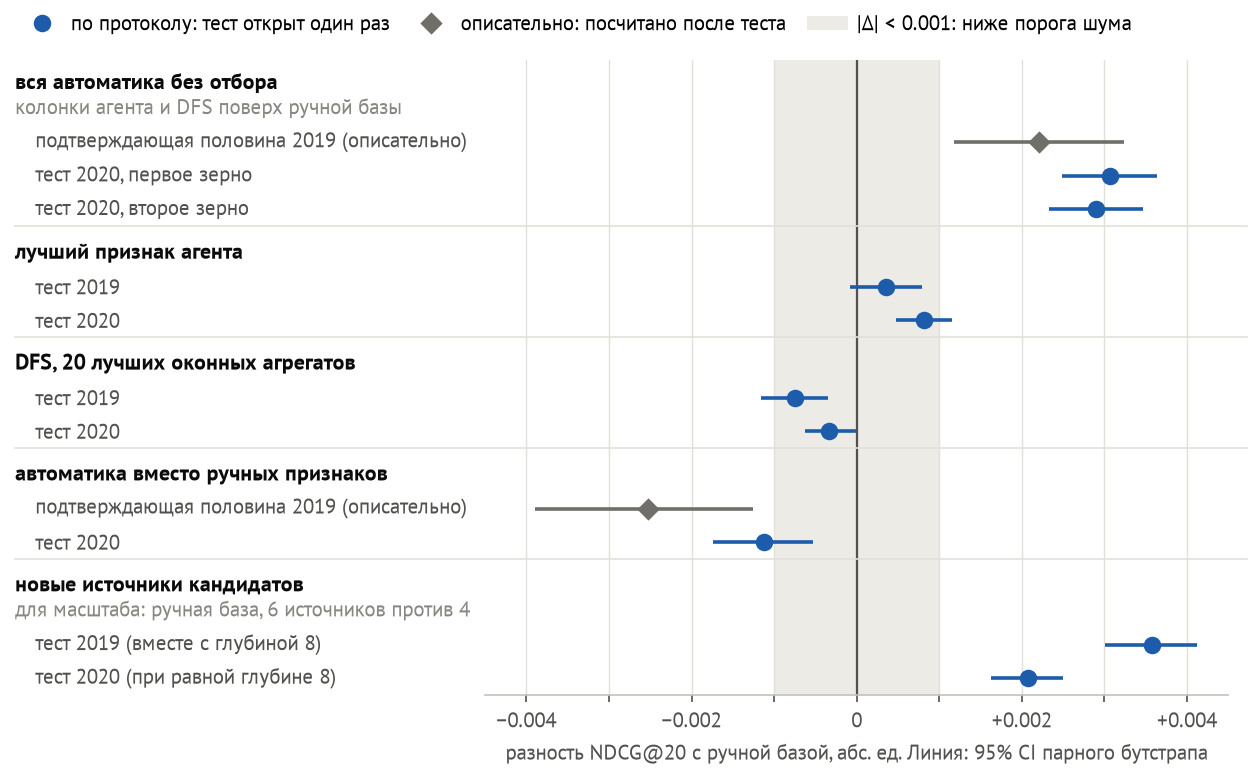
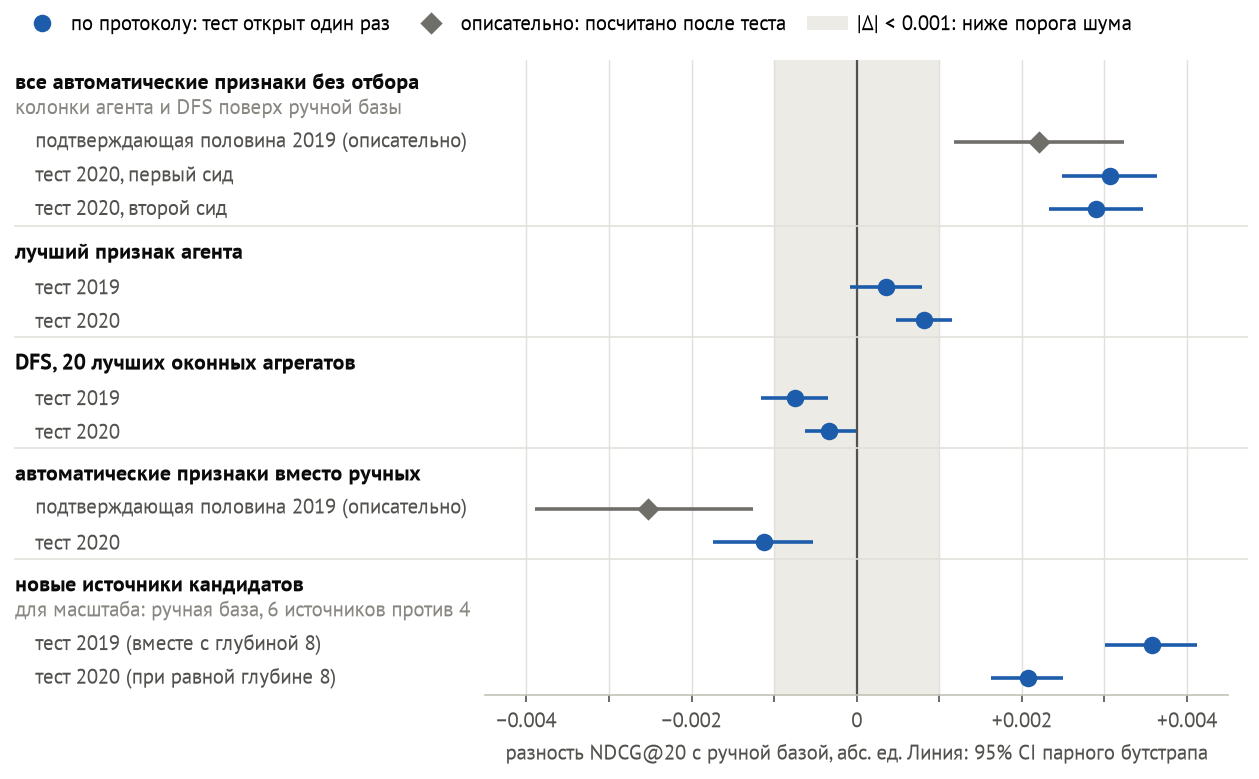
Отчёт простым языком: без внутренних терминов и ссылок на разделы

Changed region(s): [[0.031, 0.0924, 0.3407, 0.1232], [0.0929, 0.5854, 0.3407, 0.6162], [0.1239, 0.2157, 0.2168, 0.2773]]

diff --git a/scripts/writeup_figures.py b/scripts/writeup_figures.py
@@ -288,11 +288,11 @@ def fig_rees46_verdict() -> Path:
     F = FACTS
     L = RowLayout()
 
-    L.header("вся автоматика без отбора")
+    L.header("все автоматические признаки без отбора")
     L.sub("колонки агента и DFS поверх ручной базы")
     L.row("подтверждающая половина 2019 (описательно)", ci=F["hplus_b2019"], evid="descriptive")
-    L.row("тест 2020, первое зерно", ci=F["hplus_t2020_s1"], evid="protocol")
-    L.row("тест 2020, второе зерно", ci=F["hplus_t2020_s2"], evid="protocol")
+    L.row("тест 2020, первый сид", ci=F["hplus_t2020_s1"], evid="protocol")
+    L.row("тест 2020, второй сид", ci=F["hplus_t2020_s2"], evid="protocol")
     L.separator()
     L.header("лучший признак агента", gap=0.3)
     L.row("тест 2019", ci=F["p5_t2019"], evid="protocol")
@@ -302,7 +302,7 @@ def fig_rees46_verdict() -> Path:
     L.row("тест 2019", ci=F["dfs_t2019"], evid="protocol")
     L.row("тест 2020", ci=F["dfs_t2020"], evid="protocol")
     L.separator()
-    L.header("автоматика вместо ручных признаков", gap=0.3)
+    L.header("автоматические признаки вместо ручных", gap=0.3)
     L.row("подтверждающая половина 2019 (описательно)", ci=F["f1_b2019"], evid="descriptive")
     L.row("тест 2020", ci=F["f1_t2020"], evid="protocol")
     L.separator()

diff --git a/docs/writeup/REPORT.md b/docs/writeup/REPORT.md
@@ -2,25 +2,25 @@
 
 Отбор T-Lab 2026, RecSys, задача 1.
 
-**Ответ.** Мы выбрали постановку: рекомендовать в интернет-магазине REES46 товары, новые для пользователя (обоснование в разд. 1). Ручную базу (CatBoost на 80 признаках, настроенный по одному гиперпараметру за раз) мы сравнили с двумя способами строить признаки автоматически: LLM-агентом, который пишет SQL, и сеткой оконных агрегатов DFS. Из вариантов с автоматическими признаками базу обыграла только вся автоматика без отбора: все колонки агента и DFS поверх ручных признаков (рис. 1). На свежем тесте 2020 она дала +2.0% NDCG@20 к базе (+0.0030), доверительный интервал (CI) выше нуля в обоих запусках с разным зерном [по протоколу]. Гипотезу о ней мы записали после теста 2019 и проверили один раз. Прирост лучшего признака агента ниже порога шума ≈0.001, у лучших колонок DFS прироста нет, а замена ручных признаков автоматикой при настройках базы дала −0.77% на тесте 2020 [по протоколу]. На других наборах колонки агента подняли базу на отложенных неделях Tinkoff и СберМаркета [holdout с отклонением], но на Kaggle у Tinkoff оказались ниже базы, а у H&M не различены [описательно].
+**Ответ.** Мы рекомендуем в интернет-магазине REES46 товары, новые для пользователя. Ручную базу (CatBoost на 80 признаках, настроенный по одному гиперпараметру за раз) мы сравнили с двумя способами строить признаки автоматически: LLM-агентом, который пишет SQL, и сеткой оконных агрегатов DFS. Базу обыграл только один вариант: все автоматические признаки агента и DFS поверх ручных, без отбора. На свежем тесте 2020 он дал +2.0% NDCG@20 к базе (+0.0030), доверительный интервал (CI) выше нуля на обоих сидах [по протоколу]. Этот вариант мы придумали после теста 2019, записали правило до теста 2020 и проверили один раз. Прирост лучшего признака агента ниже порога шума ≈0.001, у лучших колонок DFS прироста нет, а замена ручных признаков автоматическими при настройках базы дала −0.77% на тесте 2020 [по протоколу]. На других наборах колонки агента подняли базу на отложенных неделях Tinkoff и СберМаркета [holdout с отклонением], но на Kaggle у Tinkoff оказались ниже базы, а у H&M не различены [описательно].
 
-- **[по протоколу]**: результат теста, открытого для вердикта один раз по замороженной спецификации, с 95% CI парного бутстрапа по запросам. Числа половин валидации до теста 2019 считаются этапами этого протокола, метки у них нет.
-- **[holdout с отклонением]**: правило решения записано заранее, но отложенные данные (holdout) открыты с отступлением от предрегистрации (разд. 3).
+- **[по протоколу]**: тест открыт один раз, варианты, пороги и правила решения записаны в Git до него, 95% CI парного бутстрапа по запросам. Числа валидации до теста 2019 входят в ту же проверку и метки не имеют.
+- **[holdout с отклонением]**: правило решения записано заранее, но отложенные данные (holdout) открыты не так, как было записано.
 - **[описательно]**: без проверки по протоколу, в том числе всё посчитанное после теста.
-- **[исследовательский]**: OTTO-2 и OTTO-3, разведка на соревновании Kaggle OTTO (разд. 6). Неделю для выбора и неделю Kaggle там открывали много раз.
+- **[исследовательский]**: OTTO-2 и OTTO-3, разведка на соревновании Kaggle OTTO. Неделю для выбора и неделю Kaggle там открывали много раз.
 
 ![Рис. 1](fig/fig-rees46-verdict.png)
 
-Рис. 1. Из вариантов с автоматическими признаками порог шума на тесте 2020 прошла только вся автоматика без отбора, а замена ручных признаков осталась ниже базы. Ромбы посчитаны после теста [описательно].
+Рис. 1. Порог шума на тесте 2020 прошёл только набор всех автоматических признаков без отбора, а замена ручных признаков осталась ниже базы. Ромбы посчитаны после теста [описательно].
 
 Табл. 1. Пункты условия ([пересказ](../task1-requirements.md)) и что по ним сделано.
 
-| Пункт условия | Что сделано | Где |
-|---|---|---|
-| Воспроизводимый бустинг с хорошими ручными признаками | CatBoost на 80 ручных признаках, настроен по одному гиперпараметру за раз, сочетания не проверялись | разд. 2, 5 |
-| Автоматизация генерации признаков либо альтернативный метод, превосходящий хорошо настроенный бустинг | LLM-агент и DFS. Поверх ручных признаков базу превзошла вся автоматика без отбора на тесте 2020 [по протоколу]. Отобранные признаки и замена ручных не превзошли [по протоколу] | разд. 5 |
-| Экспериментальная проверка, отчёт с результатами и ограничениями | Решения на одной половине валидации, проверка на другой, каждый тест открыт для вердикта один раз | разд. 3, 8 |
-| Данные для признаков до момента прогноза, без временных утечек | Признаки только из событий до момента рекомендации, построчный тест на утечки. Две найденные проблемы закрыты до использования | разд. 4 |
+| Пункт условия | Что сделано |
+|---|---|
+| Воспроизводимый бустинг с хорошими ручными признаками | CatBoost на 80 ручных признаках, настроен по одному гиперпараметру за раз, сочетания не проверялись |
+| Автоматизация генерации признаков либо альтернативный метод, превосходящий хорошо настроенный бустинг | LLM-агент и DFS. Поверх ручных признаков базу превзошёл набор всех автоматических признаков без отбора на тесте 2020 [по протоколу]. Отобранные признаки и замена ручных не превзошли [по протоколу] |
+| Экспериментальная проверка, отчёт с результатами и ограничениями | Решения на одной половине валидации, проверка на другой, каждый тест открыт один раз |
+| Данные для признаков до момента прогноза, без временных утечек | Признаки только из событий до момента рекомендации, построчный тест на утечки. Две найденные проблемы закрыты до использования |
 
 ## 1. Задача и данные
 
@@ -32,40 +32,40 @@
 
 ## 2. Метод
 
-**База.** Шесть источников кандидатов и 80 признаков в восьми группах. Источники: популярное, популярное в категориях и брендах пользователя, два вида соседей его недавних товаров по совместным просмотрам, переходы от просмотра к покупке. Модель: CatBoost с Logloss, глубина 8, 500 деревьев, два зерна генератора случайных чисел. NDCG@20 базы: 0.1442 на тесте 2019 и 0.1462 на тесте 2020 [по протоколу]. «Ручные» значит «спроектированные заранее по спецификации», а не найденные автоматикой. В базу вошли и идеи первого запуска агента, поэтому вклад автоматики с нуля мы не измерили.
+**База.** Шесть источников кандидатов и 80 признаков в восьми группах. Источники: популярное, популярное в категориях и брендах пользователя, два вида соседей его недавних товаров по совместным просмотрам, переходы от просмотра к покупке. Модель: CatBoost с Logloss, глубина 8, 500 деревьев, два сида. NDCG@20 базы: 0.1442 на тесте 2019 и 0.1462 на тесте 2020 [по протоколу]. «Ручные» значит «спроектированные заранее по спецификации», а не найденные агентом или DFS. В базу вошли и идеи первого запуска агента, поэтому вклад автоматических признаков с нуля мы не измерили.
 
-**LLM-агент.** За шесть раундов LLM пишет предложения агента, то есть идею и SQL-запрос к DuckDB, дающий одну или несколько колонок. Песочница считает каждое предложение только по событиям до t, и база переобучается с ним. Предложение принимается, если на половине для выбора прирост больше 0.0005 и CI выше нуля на обоих зёрнах. Этот порог мягче порога шума и только пропускает предложение на подтверждающую половину. В промпте нет строк данных и ответов, со второго раунда в нём есть эффекты прошлых предложений, а `claude -p` работает без инструментов. Из 30 предложений с 66 колонками принято одно, его мы называем лучшим признаком агента.
+**LLM-агент.** За шесть раундов LLM пишет предложения: идею и SQL-запрос к DuckDB, дающий одну или несколько колонок. Песочница считает каждое предложение только по событиям до t, и база переобучается с ним. Предложение принимается, если на половине для выбора прирост больше 0.0005 и CI выше нуля на обоих сидах. Этот порог мягче порога шума и только пропускает предложение на подтверждающую половину. В промпте нет строк данных и ответов, со второго раунда в нём есть эффекты прошлых предложений, а `claude -p` работает без инструментов. Из 30 предложений с 66 колонками принято одно, его мы называем лучшим признаком агента.
 
 **DFS (Deep Feature Synthesis).** Это контроль без LLM: 128 оконных агрегатов по товару, категории, бренду и пользователю. В модель идут 20 лучших по важности на обучении из 96 колонок, допущенных к отбору.
 
-**Варианты.** С базой мы сравнивали четыре варианта: базу с лучшим признаком агента, базу с 20 лучшими колонками DFS, всю автоматику без отбора и автоматику вместо ручных признаков. Вся автоматика без отбора: база, 66 колонок агента и 128 DFS, всего 274 признака. Автоматика вместо ручных признаков: ранги товара в шести источниках кандидатов и вся автоматика, 200 признаков.
+**Варианты.** С базой мы сравнивали четыре варианта: базу с лучшим признаком агента, базу с 20 лучшими колонками DFS, все автоматические признаки поверх базы без отбора и автоматические признаки вместо ручных. Вариант со всеми автоматическими признаками: база, 66 колонок агента и 128 DFS, всего 274 признака. Вариант с автоматическими признаками вместо ручных: ранги товара в шести источниках кандидатов и все автоматические колонки, 200 признаков.
 
 **Связь с работами.** Как в CAAFE (arXiv 2305.03403), LLM пишет код признаков, у нас это SQL по событиям до t. Завышение лучшего признака на половине для выбора мы по аналогии связываем с переобучением оценщика на валидации из LATTEArena (arXiv 2606.09004, v3, §5.3).
 
 ## 3. Протокол
 
-Решения мы принимали на одной половине валидации, проверяли на другой и каждый тест открывали для вердикта один раз. Две модели мы сравниваем по разности NDCG@20 на одних запросах, с CI парного бутстрапа. Разброс зёрен CI не учитывает, поэтому каждый вариант обучен на двух зёрнах.
+Решения мы принимали на одной половине валидации, проверяли на другой и каждый тест открывали один раз. Две модели мы сравниваем по разности NDCG@20 на одних запросах, с CI парного бутстрапа. CI не учитывает разброс между сидами, поэтому каждый вариант обучен на двух сидах.
 
-- **Порог шума ≈0.001.** Разность меньше порога мы не считаем установленной даже при CI выше нуля. Модели, отличающиеся только зерном, расходятся на подтверждающей половине до 0.0013, у 2 из 10 пар CI не накрывает ноль. Пары пересчитаны вне Git [описательно].
-- **Тесты.** Тест открывается по предрегистрации: вариантам, порогам и правилам решения, записанным в Git до чисел. Гипотезу о всей автоматике без отбора мы сформулировали после теста 2019, в котором этого варианта не было. На подтверждающей половине она дала +0.0022 [описательно]. Правило для 2020 мы записали до теста: прирост от +0.0015 на каждом зерне при CI выше нуля. Гиперпараметры, колонки DFS и признак агента для 2020 мы взяли из 2019 без перевыбора.
+- **Порог шума ≈0.001.** Разность меньше порога мы не считаем установленной даже при CI выше нуля. Модели, отличающиеся только сидом, расходятся на подтверждающей половине до 0.0013, у 2 из 10 пар CI не накрывает ноль. Пары пересчитаны вне Git [описательно].
+- **Тесты.** Варианты, пороги и правила решения записаны в Git до чисел теста. Вариант со всеми автоматическими признаками мы придумали после теста 2019, в котором его не было. На подтверждающей половине 2019 он дал +0.0022 [описательно]. Правило для 2020 мы записали до теста: прирост от +0.0015 на каждом сиде при CI выше нуля. Гиперпараметры, колонки DFS и признак агента для 2020 взяты из 2019 без перевыбора.
 
 **Отступления от протокола.**
 - Первые 11 прогонов показывали и метрики подтверждающей половины, по нашей оценке в пользу базы.
-- Глубину 8 база получила при CI выше нуля только на одном зерне, хотя агенту требовалось два, по нашей оценке тоже в пользу базы.
+- Глубину 8 база получила при CI выше нуля только на одном сиде, хотя агенту требовалось два, по нашей оценке тоже в пользу базы.
 - Лучший признак агента вошёл в тест 2019, хотя на подтверждающей половине его прирост уже не подтвердился. Такой состав теста мы выбрали вручную, в чью пользу это, неизвестно.
-- Последнее дополнение к предрегистрации 2020 мы внесли, когда уже видели числа проверочного прогона на валидации. Варианты и пороги оно не меняло, в чью пользу это, неизвестно.
-- В разборе подтверждающей половины 2019 правило для всей автоматики без отбора мы ужесточили после запуска прогонов, но до обучения её моделей: порог стал действовать на каждом зерне. Тогда мы видели только половину для выбора у одного прогона базы, и правка играет в пользу базы.
-- Перенос (Табл. 3): мы открыли отложенные недели Tinkoff и СберМаркета и отправили первые посылки Tinkoff по общему решению, без отдельного решения на каждое.
+- Последнее дополнение к плану теста 2020 мы внесли, когда уже видели метрики на валидации. Варианты и пороги оно не меняло, в чью пользу это, неизвестно.
+- В разборе подтверждающей половины 2019 правило для варианта со всеми автоматическими признаками мы ужесточили после запуска прогонов, но до обучения его моделей: порог стал действовать на каждом сиде. Тогда мы видели только половину для выбора у одного прогона базы, и правка играет в пользу базы.
+- Перенос на другие наборы: отложенные недели Tinkoff и СберМаркета мы открыли, а первые посылки Tinkoff отправили по одному общему решению, а не решали отдельно по каждому шагу.
 
-**Сколько раз открывали данные.** Тест 2020 и отложенные недели Tinkoff и СберМаркета после вердиктов повторно использовал совет агентов (разд. 6). На половине для выбора базу мы оценили 27 раз, агента 38 раз (прошлые эффекты были в его промпте), DFS 2 раза. Подтверждающую половину 2019 и валидацию 2020 мы использовали и в разборах после теста 2019, поэтому их числа после него описательные.
+**Сколько раз открывали данные.** Тест 2020 и отложенные недели Tinkoff и СберМаркета после вердиктов повторно использовал совет агентов: дополнительная проверка, где несколько LLM предлагают и отбирают признаки поверх всех автоматических. На половине для выбора базу мы оценили 27 раз, агента 38 раз (прошлые эффекты были в его промпте), DFS 2 раза. Подтверждающую половину 2019 и валидацию 2020 мы использовали и в разборах после теста 2019, поэтому их числа после него описательные.
 
 ## 4. Защита от утечек
 
 Признаки читают только события до t. Будущее окно определяет только цели и то, какие запросы оцениваются, в признаки оно не попадает. Проверка утечек на днях 22.10 и 11.11.2019 и 22.01.2020 строит признаки дня по полному журналу и по журналу, обрезанному по t, и сравнивает все колонки построчно. SQL агента выполняется в песочнице DuckDB, где есть только события до t.
 
-Постановка OTTO трансдуктивна: признаки видят более поздние события других сессий той же недели. Kaggle их выдаёт, а в онлайн-системе их нет.
+В OTTO признаки видят более поздние события других сессий той же недели. Kaggle их выдаёт, а в онлайн-системе их нет.
 
-Аудит SQL вела отдельная LLM без права правки. Аудитор Tinkoff до открытия отложенной недели посчитал корреляцию по событиям её окна цели, но набор агента был заморожен раньше. Остальные находки собраны в Табл. 2. Мы не утверждаем, что утечек нет: проверено только перечисленное.
+SQL агента проверяла отдельная LLM без права правки. На Tinkoff она до открытия отложенной недели посчитала корреляцию по событиям окна цели этой недели, но набор агента был заморожен раньше. Остальные находки собраны в Табл. 2. Мы не утверждаем, что утечек нет: проверено только перечисленное.
 
 Табл. 2. Две найденные проблемы закрыты до использования, расхождение в OTTO дали округления.
 
@@ -74,22 +74,22 @@
 | REES46, 2020: код категории брался за весь период, а у 19 категорий он появляется только 01–05.02 | тест на утечки | код берётся из событий до t, таблицы 2020 пересобраны до обучения моделей |
 | обход песочницы через функцию DuckDB `json_execute_serialized_sql` | ревью кода | закрыт до первого раунда агента |
 | OTTO: 4 колонки агента разошлись между полным журналом и журналом без продолжений сессий | тест на утечки | порядок округлений при параллельном суммировании, в один поток проверка прошла |
-| скрытое использование ответов в SQL агента | аудит SQL | не найдено в OTTO и при переносе. На REES46 его заменяет песочница |
+| скрытое использование ответов в SQL агента | проверка SQL отдельной LLM | не найдено в OTTO и при переносе. На REES46 вместо такой проверки работает песочница |
 
 ## 5. Результаты на REES46
 
-Поверх ручной базы помогла только вся автоматика без отбора (рис. 1).
+Поверх ручной базы помог только набор всех автоматических признаков без отбора.
 
-- **Вся автоматика без отбора.** На тесте 2020 она дала +0.0031 и +0.0029 по зёрнам, правило требовало +0.0015 на каждом [по протоколу]. К базе это +2.0%. На всех 16 днях, включая 27 и 28.02, вердикты те же.
+- **Все автоматические признаки без отбора.** На тесте 2020 они дали +0.0031 и +0.0029 по сидам, правило требовало +0.0015 на каждом [по протоколу]. К базе это +2.0%. На всех 16 днях, включая 27 и 28.02, вердикты те же.
 - **DFS, 20 лучших колонок.** DFS прироста не дал: −0.0008 и −0.0003 на тестах, обе разности меньше порога. CI ниже нуля оба раза, во втором вплотную к нулю [по протоколу].
-- **Плацебо.** После обоих тестов мы перемешали те же 194 колонки по строкам внутри дня: число и распределения колонок прежние, связь с парой пользователь–товар разрушена. На валидации настоящие колонки лучше перемешанных на 0.0025–0.0043 [описательно]. Перемешанные меняют базу на −0.0008…−0.0003 [описательно]. Значит, прирост несёт содержание колонок. По разложению на тех же данных его несут в основном колонки агента, одни DFS базу не поднимают [описательно]. На 2019 эта оценка вклада агента смещена: его предложения подбирались по половине для выбора 2019. На тесте состав прироста не разделён.
-- **Кандидаты.** В кандидаты не попадает около половины целей и больше: ≈48% на валидации 2019 по ночному журналу [описательно]. По разбору после теста на 29.01–02.02.2020 их ≈58% [описательно]. Новые источники кандидатов дали на тесте 2019 наибольший прирост, +0.0036 вместе с глубиной 8, а на тесте 2020 при равной глубине повторились, +0.0021 [по протоколу]. Источники входят в ручную базу, агент на REES46 пишет только признаки.
+- **Проверка перемешиванием.** После обоих тестов мы перемешали те же 194 колонки по строкам внутри дня: число и распределения колонок прежние, связь с парой пользователь–товар разрушена. На валидации настоящие колонки лучше перемешанных на 0.0025–0.0043 [описательно]. Перемешанные меняют базу на −0.0008…−0.0003 [описательно]. Значит, прирост несёт содержание колонок. По разложению на тех же данных его несут в основном колонки агента, одни DFS базу не поднимают [описательно]. На 2019 эта оценка вклада агента смещена: его предложения подбирались по половине для выбора 2019. На тесте состав прироста не разделён.
+- **Кандидаты.** В кандидаты не попадает около половины целей и больше: ≈48% на валидации 2019 [описательно] и ≈58% на последних пяти днях обучения 2020 (29.01–02.02) [описательно]. Новые источники кандидатов дали на тесте 2019 наибольший прирост, +0.0036 вместе с глубиной 8, а на тесте 2020 при равной глубине повторились, +0.0021 [по протоколу]. Источники входят в ручную базу, агент на REES46 пишет только признаки.
 
-**Лучший признак агента и завышение при отборе.** Даже если ни одно предложение не работает, лучшее из 30 на половине для выбора в среднем показывает около +0.0008 [описательно]. Лучший признак агента дал там +0.0013 и +0.0017 по зёрнам. На подтверждающей половине осталось +0.0004, и CI накрыл ноль. На тестах вышло +0.0004 и +0.0008 [по протоколу]: в 2019 CI накрыл ноль, в 2020 CI выше нуля, но прирост ниже порога и не установлен. Завышение поймала подтверждающая половина, порог приёма его пропустил. Прямого теста «пошагово против всего сразу» у нас нет: оба числа сравнивают с базой, а вся автоматика включает и DFS. В разборе после теста мы принимали предложения агента группами по пять, и на половине для выбора прошла одна группа. На подтверждающей половине её отставание от всех предложений агента сразу ниже порога шума [описательно]. Синергия это или сумма мелких эффектов, мы не различили.
+**Лучший признак агента и завышение при отборе.** Даже если ни одно предложение не работает, лучшее из 30 на половине для выбора в среднем показывает около +0.0008 [описательно]. Лучший признак агента дал там +0.0013 и +0.0017 по сидам. На подтверждающей половине осталось +0.0004, и CI накрыл ноль. На тестах вышло +0.0004 и +0.0008 [по протоколу]: в 2019 CI накрыл ноль, в 2020 CI выше нуля, но прирост ниже порога и не установлен. Завышение поймала подтверждающая половина, порог приёма его пропустил. Прямого теста «пошагово против всего сразу» у нас нет: оба числа сравнивают с базой, а все автоматические признаки включают и DFS. В разборе после теста мы принимали предложения агента группами по пять, и на половине для выбора прошла одна группа. На подтверждающей половине её отставание от всех предложений агента сразу ниже порога шума [описательно]. Синергия это или сумма мелких эффектов, мы не различили.
 
-**Замена ручных признаков.** Если оставить из ручных только ранги источников, база теряет 0.0167 на тесте 2020 [по протоколу] и 0.0171 на подтверждающей половине 2019 [описательно]. Автоматика вместо ручных признаков возвращает 93% этого вклада на тесте 2020 [по протоколу] и 85% на подтверждающей половине 2019 [описательно]. Но до базы она не дотягивает: −1.68% к базе на подтверждающей половине 2019 [описательно] и −0.77% на тесте 2020 [по протоколу], CI ниже нуля оба раза. Одни колонки агента возвращают 78% вклада, одни DFS 25%, оба числа на подтверждающей половине 2019 [описательно]. Оценка для агента смещена по той же причине, что в плацебо. На тесте 2020 разность −0.0011 лишь чуть больше порога [по протоколу]. Вариант на 200 признаках мы не перенастраивали, поэтому вывод относится к настройкам базы.
+**Замена ручных признаков.** Если оставить из ручных только ранги источников, база теряет 0.0167 на тесте 2020 [по протоколу] и 0.0171 на подтверждающей половине 2019 [описательно]. Автоматические признаки вместо ручных возвращают 93% этого вклада на тесте 2020 [по протоколу] и 85% на подтверждающей половине 2019 [описательно]. Но до базы они не дотягивают: −1.68% к базе на подтверждающей половине 2019 [описательно] и −0.77% на тесте 2020 [по протоколу], CI ниже нуля оба раза. Одни колонки агента возвращают 78% вклада, одни DFS 25%, оба числа на подтверждающей половине 2019 [описательно]. Оценка для агента смещена по той же причине, что в проверке перемешиванием. На тесте 2020 разность −0.0011 лишь чуть больше порога [по протоколу]. Вариант на 200 признаках мы не перенастраивали, поэтому вывод относится к настройкам базы.
 
-**Насколько настроен бустинг.** До теста мы настраивали базу по одному гиперпараметру за раз на половине для выбора и сочетаний не проверяли. Глубину 8 мы приняли, 1000 деревьев и трудные негативы отвергли. После теста выигрыша не дали глубина 10 и YetiRank у базы, пять значений трёх гиперпараметров у всей автоматики и ранняя остановка у обеих [описательно]. Что база вышла на плато, это не доказывает. Бюджеты мы не выравнивали: ручная настройка заняла 16 подгонок, ≈2.1 ч, а агент ≈4.8 ч. Недонастройка базы облегчает выигрыш автоматике, но автоматику вместо ручных признаков, плацебо, перенос и совет мы тоже не настраивали.
+**Насколько настроен бустинг.** До теста мы настраивали базу по одному гиперпараметру за раз на половине для выбора и сочетаний не проверяли. Глубину 8 мы приняли, 1000 деревьев и трудные негативы отвергли. После теста выигрыша не дали глубина 10 и YetiRank у базы, пять значений трёх гиперпараметров у набора всех автоматических признаков и ранняя остановка у обоих вариантов [описательно]. Что база вышла на плато, это не доказывает. Бюджеты мы не выравнивали: ручная настройка заняла 16 подгонок, ≈2.1 ч, а агент ≈4.8 ч. Недонастройка базы облегчает выигрыш автоматическим признакам, но вариант с автоматическими признаками вместо ручных, проверку перемешиванием, перенос и совет агентов мы тоже не настраивали.
 
 ## 6. Границы вывода
 
@@ -101,25 +101,25 @@
 
 | Набор | Отложенные данные | Kaggle private |
 |---|---|---|
-| Tinkoff, NDCG@20 | +6.2% и +3.6% по зёрнам [holdout с отклонением] | ниже базы, ≈−7.6% [описательно] |
-| СберМаркет, MAP@50 | +2.6% на обоих зёрнах [holdout с отклонением] | не проверен: на Kaggle колонки чаще пусты, чем на обучении, и не отправлялись |
+| Tinkoff, NDCG@20 | +6.2% и +3.6% по сидам [holdout с отклонением] | ниже базы, ≈−7.6% [описательно] |
+| СберМаркет, MAP@50 | +2.6% на обоих сидах [holdout с отклонением] | не проверен: на Kaggle колонки чаще пусты, чем на обучении, и не отправлялись |
 | H&M, MAP@12 | отложенной недели нет, неделя валидации +8.9% [описательно] | не различено [описательно] |
 
 Технические отклонения переноса мы записали в Git позже, чем применили, на значения это не влияет. Базы собирались с помощью LLM, которая знает эти соревнования, поэтому знание публичных решений не исключено. Промпт агента соревнование не называет, но схема данных узнаваема. На отложенных неделях запросом считается пользователь с целью в окне, а Kaggle оценивает другую популяцию.
 
-У Tinkoff прирост есть только на отложенной неделе: на валидации CI накрывает ноль, на Kaggle колонки ниже базы на обоих зёрнах, причины мы не проверяли. У H&M нет свежей отложенной недели: неделя валидации была отложенной в прежнем эксперименте. MAP@12 на ней считается только по 1 905 покупателям, CI второго зерна накрывает ноль, а на Kaggle больше половины клиентов получают одинаковый популярный ответ. Промпт агента на H&M набор не скрывает, и LLM знает решения этого соревнования. Если эффекта нет, наше правило сравнения посылок на Kaggle ошибается примерно в 11% случаев в каждую сторону, а прирост такой величины, как на REES46, при двух зёрнах не различает. Мест на лидербордах мы не заявляем ни здесь, ни в OTTO: все посылки поздние.
+У Tinkoff прирост есть только на отложенной неделе: на валидации CI накрывает ноль, на Kaggle колонки ниже базы на обоих сидах, причины мы не проверяли. У H&M нет свежей отложенной недели: неделя валидации была отложенной в прежнем эксперименте. MAP@12 на ней считается только по 1 905 покупателям, CI второго сида накрывает ноль, а на Kaggle больше половины клиентов получают одинаковый популярный ответ. Промпт агента на H&M набор не скрывает, и LLM знает решения этого соревнования. Если эффекта нет, наше правило сравнения посылок на Kaggle ошибается примерно в 11% случаев в каждую сторону, а прирост такой величины, как на REES46, при двух сидах не различает. Мест на лидербордах мы не заявляем ни здесь, ни в OTTO: все посылки поздние.
 
 ### Совет агентов
 
-В [совете агентов](../task1-v2-council.md) LLM-генераторы и критики предлагают семейства признаков поверх всей автоматики без отбора, отбор вычёркивает вредные, и результат сравнивается с моделью на том же числе признаков без отбора. Ожидаемый исход «не различено» мы записали в предрегистрации до кода, и он вышел на уже открытых данных: тесте REES46 2020 и отложенных неделях Tinkoff и СберМаркета [описательно]. Отбор совета не включился ни на одном наборе, поэтому мы проверили только генерацию. Эффекты меньше разрешения теста не исключены.
+В [совете агентов](../task1-v2-council.md) LLM-генераторы и критики предлагают семейства признаков поверх всех автоматических, отбор вычёркивает вредные, и результат сравнивается с моделью на том же числе признаков без отбора. Ожидаемый исход «не различено» мы записали заранее, до кода, и он вышел на уже открытых данных: тесте REES46 2020 и отложенных неделях Tinkoff и СберМаркета [описательно]. Отбор совета не включился ни на одном наборе, поэтому мы проверили только генерацию. Эффекты меньше разрешения теста не исключены.
 
 ### OTTO, где агент строит и кандидатов
 
 На соревновании Kaggle OTTO по началу сессии нужно предсказать до 20 товаров для кликов, корзин и заказов, а Score взвешивает их Recall@20. На вопрос о настроенном бустинге OTTO не отвечает, потому что база там намеренно простая: история сессии, популярность и ранкер без настройки. Агент пишет SQL таблиц «товар × товар», источников кандидатов и признаков в лимитах на раунды, источники и кандидатов на сессию. Двухэтапную схему, лимиты, ранкер и правила выбора и остановки агент не выбирал, а новые итерации мы запускали вручную. Потолок кандидатов: Score по всем кандидатам сессии, верхняя граница для ранкера.
 
-На шагах OTTO-2 и OTTO-3 посылку мы выбирали правилом, записанным заранее, но у OTTO-2 смена порядка двух посылок попала в Git только вместе с результатом первой. На неделе для выбора приросты шагов OTTO-3 больше разброса от выборки сессий (рис. 2) [исследовательский]. Их 95% CI выше нуля, но без учёта отбора по неделе для выбора, зерна модели и запуска агента. У последнего шага CI по заказам задевает ноль. На том же ранкере новые наборы агента в расширенных лимитах дали больше, чем переобучение ранкера. Этот прирост шёл вместе с ростом потолка кандидатов, вклад не разделён. Лучший private 0.5963 <!--OTTO-BEST--> дала итерация 3 (Табл. 4) [исследовательский], итераций после неё не было.
+На шагах OTTO-2 и OTTO-3 посылку мы выбирали правилом, записанным заранее, но у OTTO-2 смена порядка двух посылок попала в Git только вместе с результатом первой. На неделе для выбора приросты шагов OTTO-3 больше разброса от выборки сессий [исследовательский]. Их 95% CI выше нуля, но без учёта отбора по неделе для выбора, сида модели и запуска агента. У последнего шага CI по заказам задевает ноль. На том же ранкере новые наборы агента в расширенных лимитах дали больше, чем переобучение ранкера. Этот прирост шёл вместе с ростом потолка кандидатов, вклад не разделён. Лучший private 0.5963 <!--OTTO-BEST--> дала итерация 3 [исследовательский], итераций после неё не было.
 
-Табл. 4. Каждый шаг OTTO поднял Score на неделе для выбора и на private. Уровни недели для выбора и private несравнимы, сравнимы приросты. Private простой базы и OTTO-1 усреднён по двум зёрнам. Простая база и OTTO-1 [описательно], OTTO-2 и OTTO-3 [исследовательский].
+Табл. 4. Каждый шаг OTTO поднял Score на неделе для выбора и на private. Уровни недели для выбора и private несравнимы, сравнимы приросты. Private простой базы и OTTO-1 усреднён по двум сидам. Простая база и OTTO-1 [описательно], OTTO-2 и OTTO-3 [исследовательский].
 
 | Шаг | Неделя для выбора | Потолок кандидатов | Private |
 |---|---:|---:|---:|
@@ -135,17 +135,17 @@
 Рис. 2. Приросты за шаг на неделе для выбора и на private совпали по знаку на каждом шаге, а по величине разошлись не больше чем на 0.0006, кроме первого шага. CI без учёта отбора на неделе для выбора.
 
 У шагов OTTO три ограничения.
-- Это не проверка по протоколу. По предрегистрации простая база должна была быть не хуже правила без модели по каждому типу действий, а по кликам она уступила 0.0016 [описательно]. Сравнение мы перенесли на общий Score после чисел недели для выбора, поэтому числа отложенной недели и недели Kaggle подтверждением по протоколу не служат. На неделю Kaggle ушло 9 <!--F5-READS--> посылок. Правило «стоп при private ≥ 0.590», записанное до результатов, сработало на итерации 1, но мы отправили ещё две итерации, до заранее записанного предела.
-- Придумано это или вспомнено, не различается. Аудитор по памяти счёл общеизвестными большинство предложений в каждом прогоне агента. Один признак итерации 2, по его памяти, повторяет веса типов действий из публичного решения. Пересказ части одного из публичных решений попал в журнал исследования до предрегистрации OTTO. Промпт соревнование не называет, с решениями мы не сверяли. Конвейер тоже строился с помощью LLM, которая знает OTTO.
-- Это не один эксперимент. Простую базу с ранкером OTTO-2 мы не обучали, шаг к итерации 1 смешивает новые лимиты и новый запуск агента, а на каждый набор приходится один прогон агента и одна модель. Неделя для выбора смещена: агент видел recall на пробе той же недели, по ней мы выбирали варианты и итерации, и её события есть в истории финальных моделей. Несмещённую оценку даёт только private. Постановка OTTO трансдуктивна (разд. 4).
+- Это не проверка по протоколу. По заранее записанному плану простая база должна была быть не хуже правила без модели по каждому типу действий, а по кликам она уступила 0.0016 [описательно]. Сравнение мы перенесли на общий Score после чисел недели для выбора, поэтому числа отложенной недели и недели Kaggle подтверждением по протоколу не служат. На неделю Kaggle ушло 9 <!--F5-READS--> посылок. Правило «стоп при private ≥ 0.590», записанное до результатов, сработало на итерации 1, но мы отправили ещё две итерации, до заранее записанного предела.
+- Придумано это или вспомнено, не различается. Проверяющая LLM по памяти сочла общеизвестными большинство предложений в каждом прогоне агента. Один признак итерации 2, по её памяти, повторяет веса типов действий из публичного решения. Пересказ части одного из публичных решений попал в журнал исследования раньше, чем план OTTO. Промпт соревнование не называет, с решениями мы не сверяли. Конвейер тоже строился с помощью LLM, которая знает OTTO.
+- Это не один эксперимент. Простую базу с ранкером OTTO-2 мы не обучали, шаг к итерации 1 смешивает новые лимиты и новый запуск агента, а на каждый набор приходится один прогон агента и одна модель. Неделя для выбора смещена: агент видел recall на пробе той же недели, по ней мы выбирали варианты и итерации, и её события есть в истории финальных моделей. Несмещённую оценку даёт только private. Признаки OTTO видят более поздние события других сессий той же недели, в онлайн-системе таких данных нет.
 
 ### Выводы по наборам
 
-Табл. 5. Рост от всей автоматики по протоколу проверен только на REES46, а на Kaggle он не подтвердился там, где его проверяли. Остальные выводы разд. 5 сделаны только на REES46. Прочерк: не проверялось.
+Табл. 5. Рост от набора всех автоматических признаков по протоколу проверен только на REES46, а на Kaggle он не подтвердился там, где его проверяли. Остальные выводы о REES46 на других наборах не проверялись. Прочерк: не проверялось.
 
 | Вывод | REES46, тест 2020 | H&M | Tinkoff | СберМаркет |
 |---|---|---|---|---|
-| вся автоматика поверх базы¹ | рост [по протоколу] | рост [описательно] | рост [holdout с отклонением] | рост [holdout с отклонением] |
+| все автоматические признаки поверх базы¹ | рост [по протоколу] | рост [описательно] | рост [holdout с отклонением] | рост [holdout с отклонением] |
 | то же на Kaggle | — | не различено [описательно] | ниже базы [описательно] | не проверен |
 | совет против равного числа признаков без отбора | не различено [описательно] | — | не различено [описательно] | не различено [описательно] |
 
@@ -157,12 +157,12 @@
 
 ## 8. Ограничения
 
-- Один магазин: по протоколу проверен только REES46 (разд. 6).
-- Главный результат: один тест 2020 и два зерна, повтора во времени нет (разд. 3).
-- Бустинг настроен по одному гиперпараметру за раз, бюджеты не выравнивались (разд. 5).
-- Разброс зёрен для порога шума пересчитан вне Git (разд. 3).
-- Оба тестовых периода REES46 уже открыты, свежего теста не осталось (разд. 3).
-- Ревью и аудит вели отдельные LLM: ошибки счёта они ловят, общие слепые зоны модели нет.
+- Один магазин: по протоколу проверен только REES46.
+- Главный результат: один тест 2020 и два сида, повтора во времени нет.
+- Бустинг настроен по одному гиперпараметру за раз, бюджеты не выравнивались.
+- Разброс между сидами для порога шума пересчитан вне Git.
+- Оба тестовых периода REES46 уже открыты, свежего теста не осталось.
+- Ревью кода и проверку SQL вели отдельные LLM: ошибки счёта они ловят, общие слепые зоны модели нет.
 
 ## Приложения
 

diff --git a/README.md b/README.md
@@ -2,7 +2,7 @@
 
 **Сдача:** [отчёт в PDF](docs/writeup/REPORT.pdf) (7 страниц) и [в Markdown](docs/writeup/REPORT.md).
 
-**Ответ.** Мы выбрали постановку: рекомендовать в интернет-магазине REES46 товары, новые для пользователя. Ручную базу (CatBoost на 80 признаках, настроенный по одному гиперпараметру за раз) мы сравнили с двумя способами строить признаки автоматически: LLM-агентом, который пишет SQL, и сеткой оконных агрегатов DFS. Из вариантов с автоматическими признаками базу обыграла только вся автоматика без отбора: все колонки агента и DFS поверх ручных признаков. На свежем тесте 2020 она дала +2.0% NDCG@20 к базе (+0.0030), доверительный интервал (CI) выше нуля в обоих запусках с разным зерном [по протоколу]. Гипотезу о ней мы записали после теста 2019 и проверили один раз. Прирост лучшего признака агента ниже порога шума ≈0.001, у лучших колонок DFS прироста нет, а замена ручных признаков автоматикой при настройках базы дала −0.77% на тесте 2020 [по протоколу]. На других наборах колонки агента подняли базу на отложенных неделях Tinkoff и СберМаркета [holdout с отклонением], но на Kaggle у Tinkoff оказались ниже базы, а у H&M не различены [описательно]. Метка стоит у каждого вывода.
+**Ответ.** Мы рекомендуем в интернет-магазине REES46 товары, новые для пользователя. Ручную базу (CatBoost на 80 признаках, настроенный по одному гиперпараметру за раз) мы сравнили с двумя способами строить признаки автоматически: LLM-агентом, который пишет SQL, и сеткой оконных агрегатов DFS. Базу обыграл только один вариант: все автоматические признаки агента и DFS поверх ручных, без отбора. На свежем тесте 2020 он дал +2.0% NDCG@20 к базе (+0.0030), доверительный интервал (CI) выше нуля на обоих сидах [по протоколу]. Этот вариант мы придумали после теста 2019, записали правило до теста 2020 и проверили один раз. Прирост лучшего признака агента ниже порога шума ≈0.001, у лучших колонок DFS прироста нет, а замена ручных признаков автоматическими при настройках базы дала −0.77% на тесте 2020 [по протоколу]. На других наборах колонки агента подняли базу на отложенных неделях Tinkoff и СберМаркета [holdout с отклонением], но на Kaggle у Tinkoff оказались ниже базы, а у H&M не различены [описательно]. Метка стоит у каждого вывода.
 
 ## Что читать дальше
 
@@ -15,14 +15,14 @@
 
 | Путь | Что там |
 |---|---|
-| `task1/` | конвейер REES46: импорт (`data.py`), таблицы дней (`build.py`), ручная база (`baseline.py`), CatBoost и NDCG@20 (`model.py`), очередь прогонов на валидации (`exp.py`), LLM-агент (`agent.py`, песочница `extra.py`), DFS (`dfs.py`), проверка утечек (`leakcheck.py`), единственный тест (`final.py`), разборы после теста (`posthoc.py`), повтор на 2020 (`replicate.py`, период в `period.py`), плацебо (`placebo.py`) |
-| `task1/runs/` | предрегистрации и квитанции прогонов: ночь, сетка, тест 2019, повтор 2020, плацебо |
-| `council/` | совет LLM-агентов на REES46: строит свои семейства признаков поверх всей автоматики без отбора и отбирает среди них. В `council/xfer/` его перенос на Tinkoff и СберМаркет, в `council/runs/` предрегистрации и итоги |
+| `task1/` | конвейер REES46: импорт (`data.py`), таблицы дней (`build.py`), ручная база (`baseline.py`), CatBoost и NDCG@20 (`model.py`), очередь прогонов на валидации (`exp.py`), LLM-агент (`agent.py`, песочница `extra.py`), DFS (`dfs.py`), проверка утечек (`leakcheck.py`), единственный тест (`final.py`), разборы после теста (`posthoc.py`), повтор на 2020 (`replicate.py`, период в `period.py`), проверка перемешиванием (`placebo.py`) |
+| `task1/runs/` | планы, записанные до запуска, и итоги прогонов: агент, разборы после теста 2019, тест 2019, повтор 2020, проверка перемешиванием |
+| `council/` | совет LLM-агентов на REES46: строит свои семейства признаков поверх всех автоматических и отбирает среди них. В `council/xfer/` его перенос на Tinkoff и СберМаркет, в `council/runs/` планы и итоги |
 | `scripts/hm_*`, `scripts/xfer_*` | ручные базы и перенос агента на H&M, Tinkoff и СберМаркет |
-| `scripts/otto*` | OTTO-1 (предрегистрация в `docs/otto-design.md`), OTTO-2 и OTTO-3 (разведка) |
+| `scripts/otto*` | OTTO-1 (план в `docs/otto-design.md`), OTTO-2 и OTTO-3 (разведка) |
 | `scripts/writeup_*` | рисунки отчёта из сводки чисел и сборка PDF |
-| `configs/datasets/` | замороженные наборы, предрегистрации и отклонения переносов и OTTO |
-| `docs/` | предрегистрации и журналы по наборам (`hm-*`, `xfer-*`, `otto*`), журналы прогонов в `docs/*-run/` |
+| `configs/datasets/` | замороженные наборы, планы и отклонения переносов и OTTO |
+| `docs/` | планы и журналы по наборам (`hm-*`, `xfer-*`, `otto*`), журналы прогонов в `docs/*-run/` |
 | `tests/`, `council/tests/` | юнит-тесты |
 
 ## Как воспроизвести
